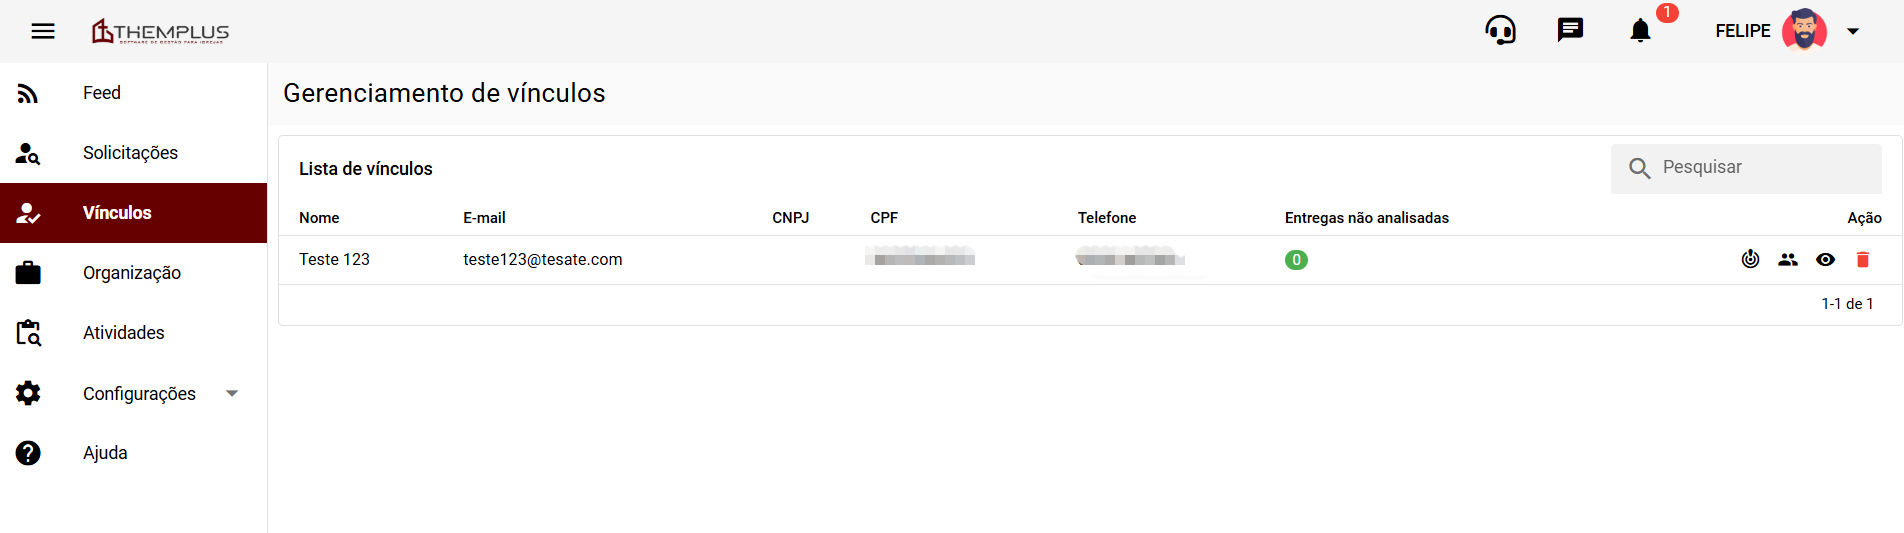
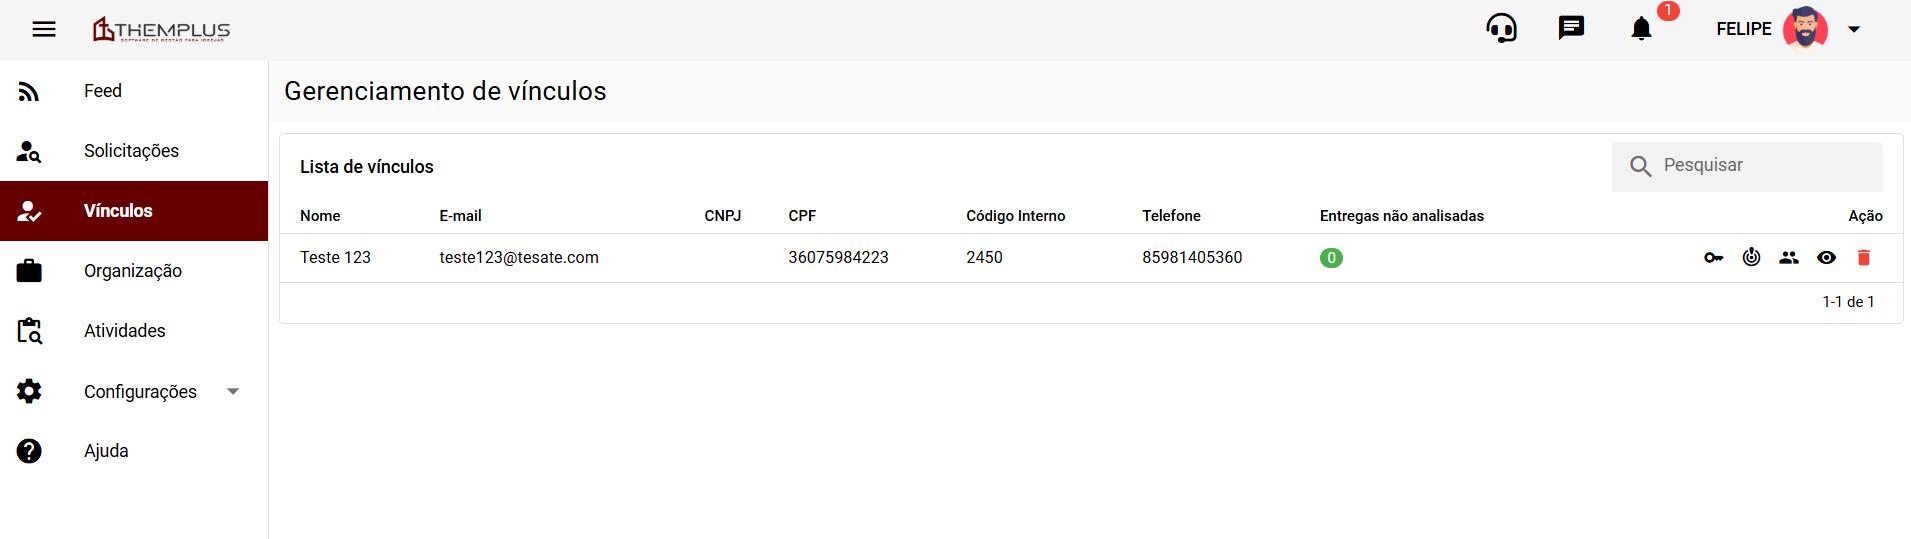
Doc: Adicição de documentação

diff --git a/src/components/document/BondDocument.vue b/src/components/document/BondDocument.vue
@@ -26,6 +26,12 @@ defineOptions({
     <ul class="text-body1 column q-gutter-y-md">
       <li>
         <p>
+          <strong>Código Interno:</strong> Configure um código interno para cada
+          organização, de acordo com as regras de sua organização.
+        </p>
+      </li>
+      <li>
+        <p>
           <strong>Alertas Personalizados:</strong> Configure alertas específicos
           para as categorias de movimentação de cada organização cliente. Quando
           o cliente registrar uma movimentação utilizando uma categoria com um
@@ -51,8 +57,8 @@ defineOptions({
       </li>
       <li>
         <p>
-          <strong>Dissolução de Vínculo Controlada:</strong> Remova o vínculo
-          com a organização cliente de forma controlada e segura, caso seja
+          <strong>Exclusão de Vínculo:</strong> Remova o vínculo com a
+          organização cliente de forma controlada e segura, caso seja
           necessário.
         </p>
       </li>
